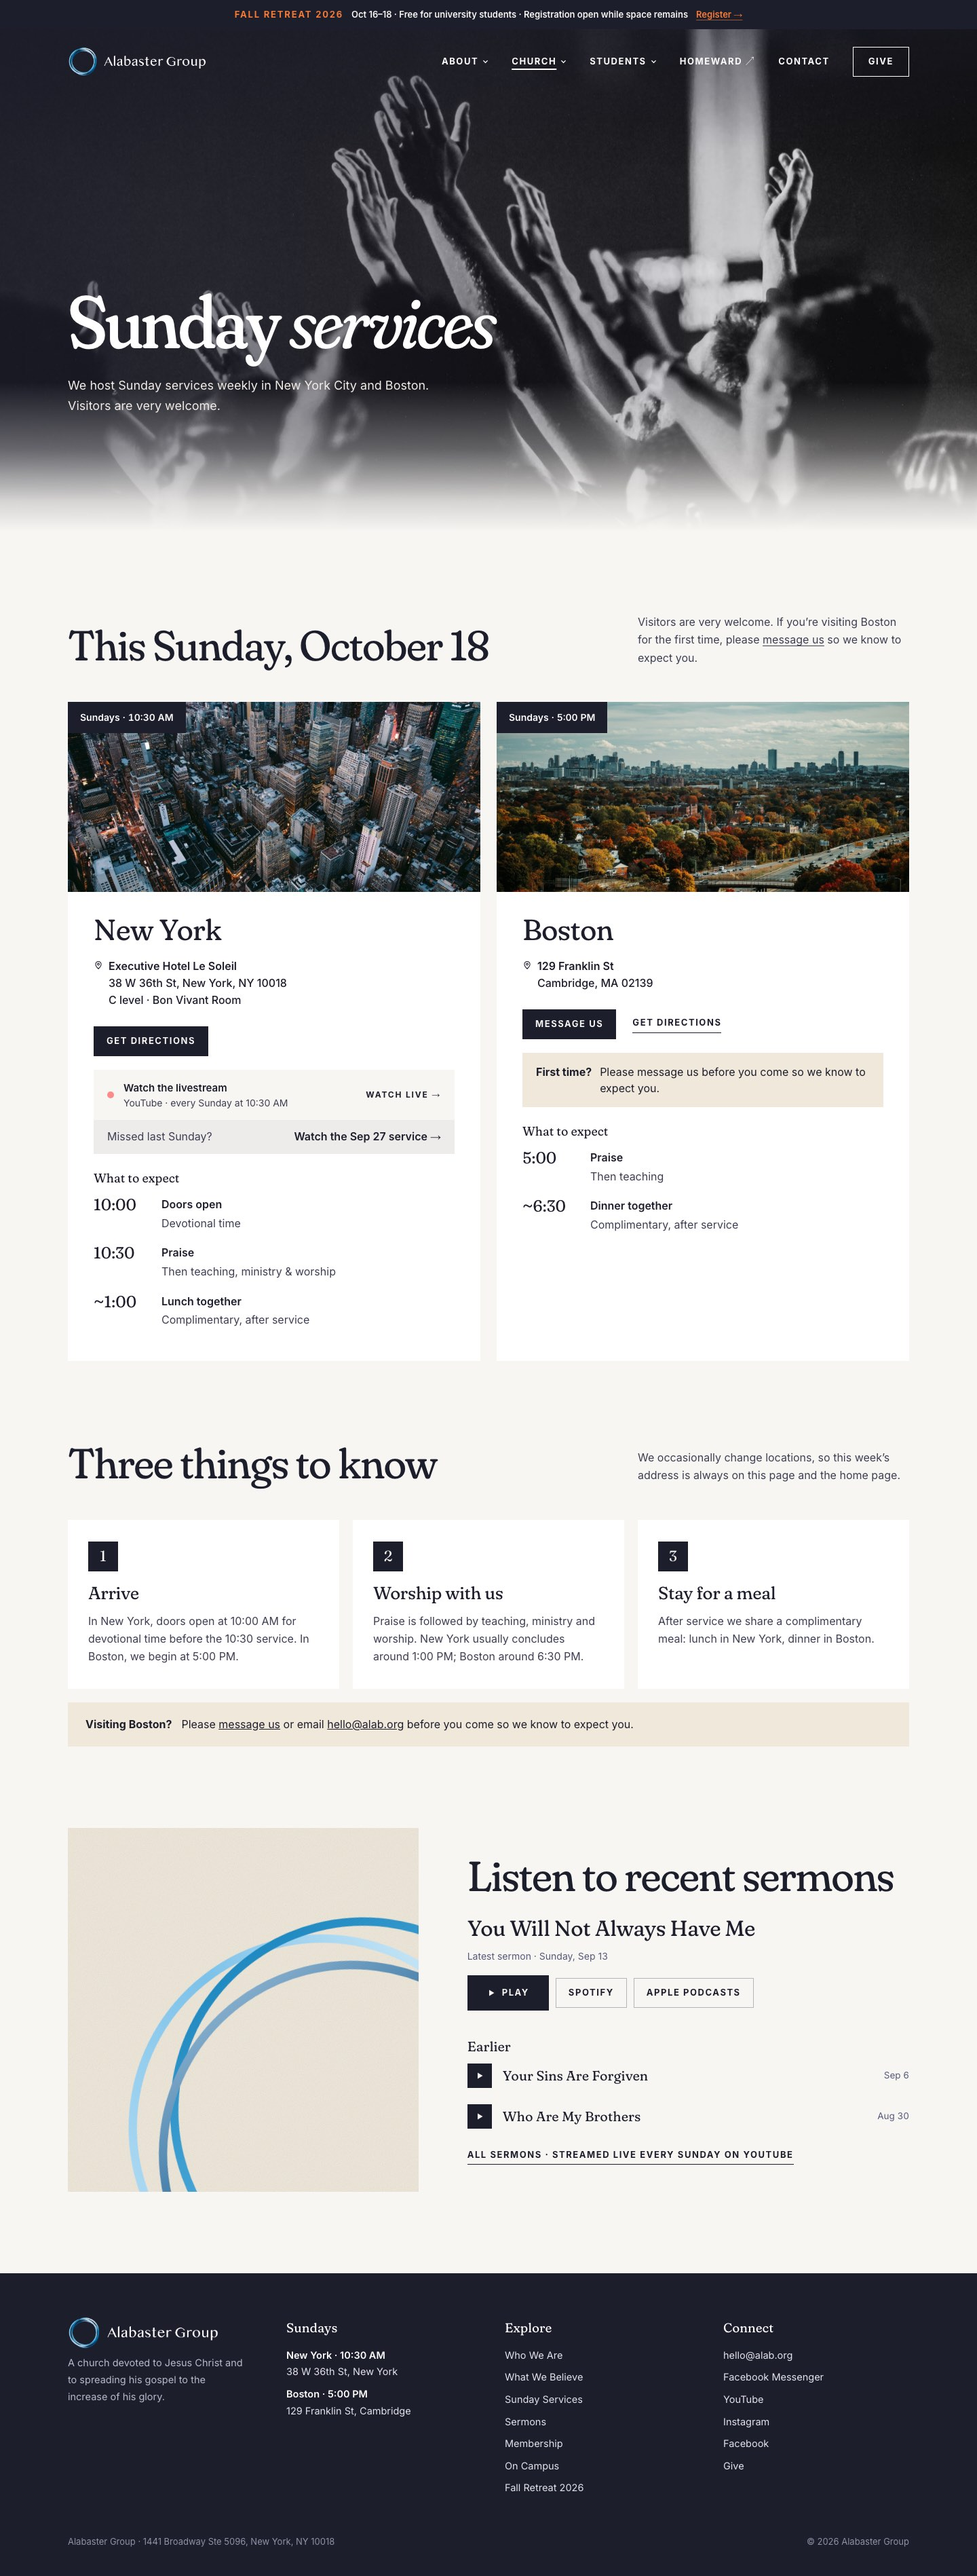
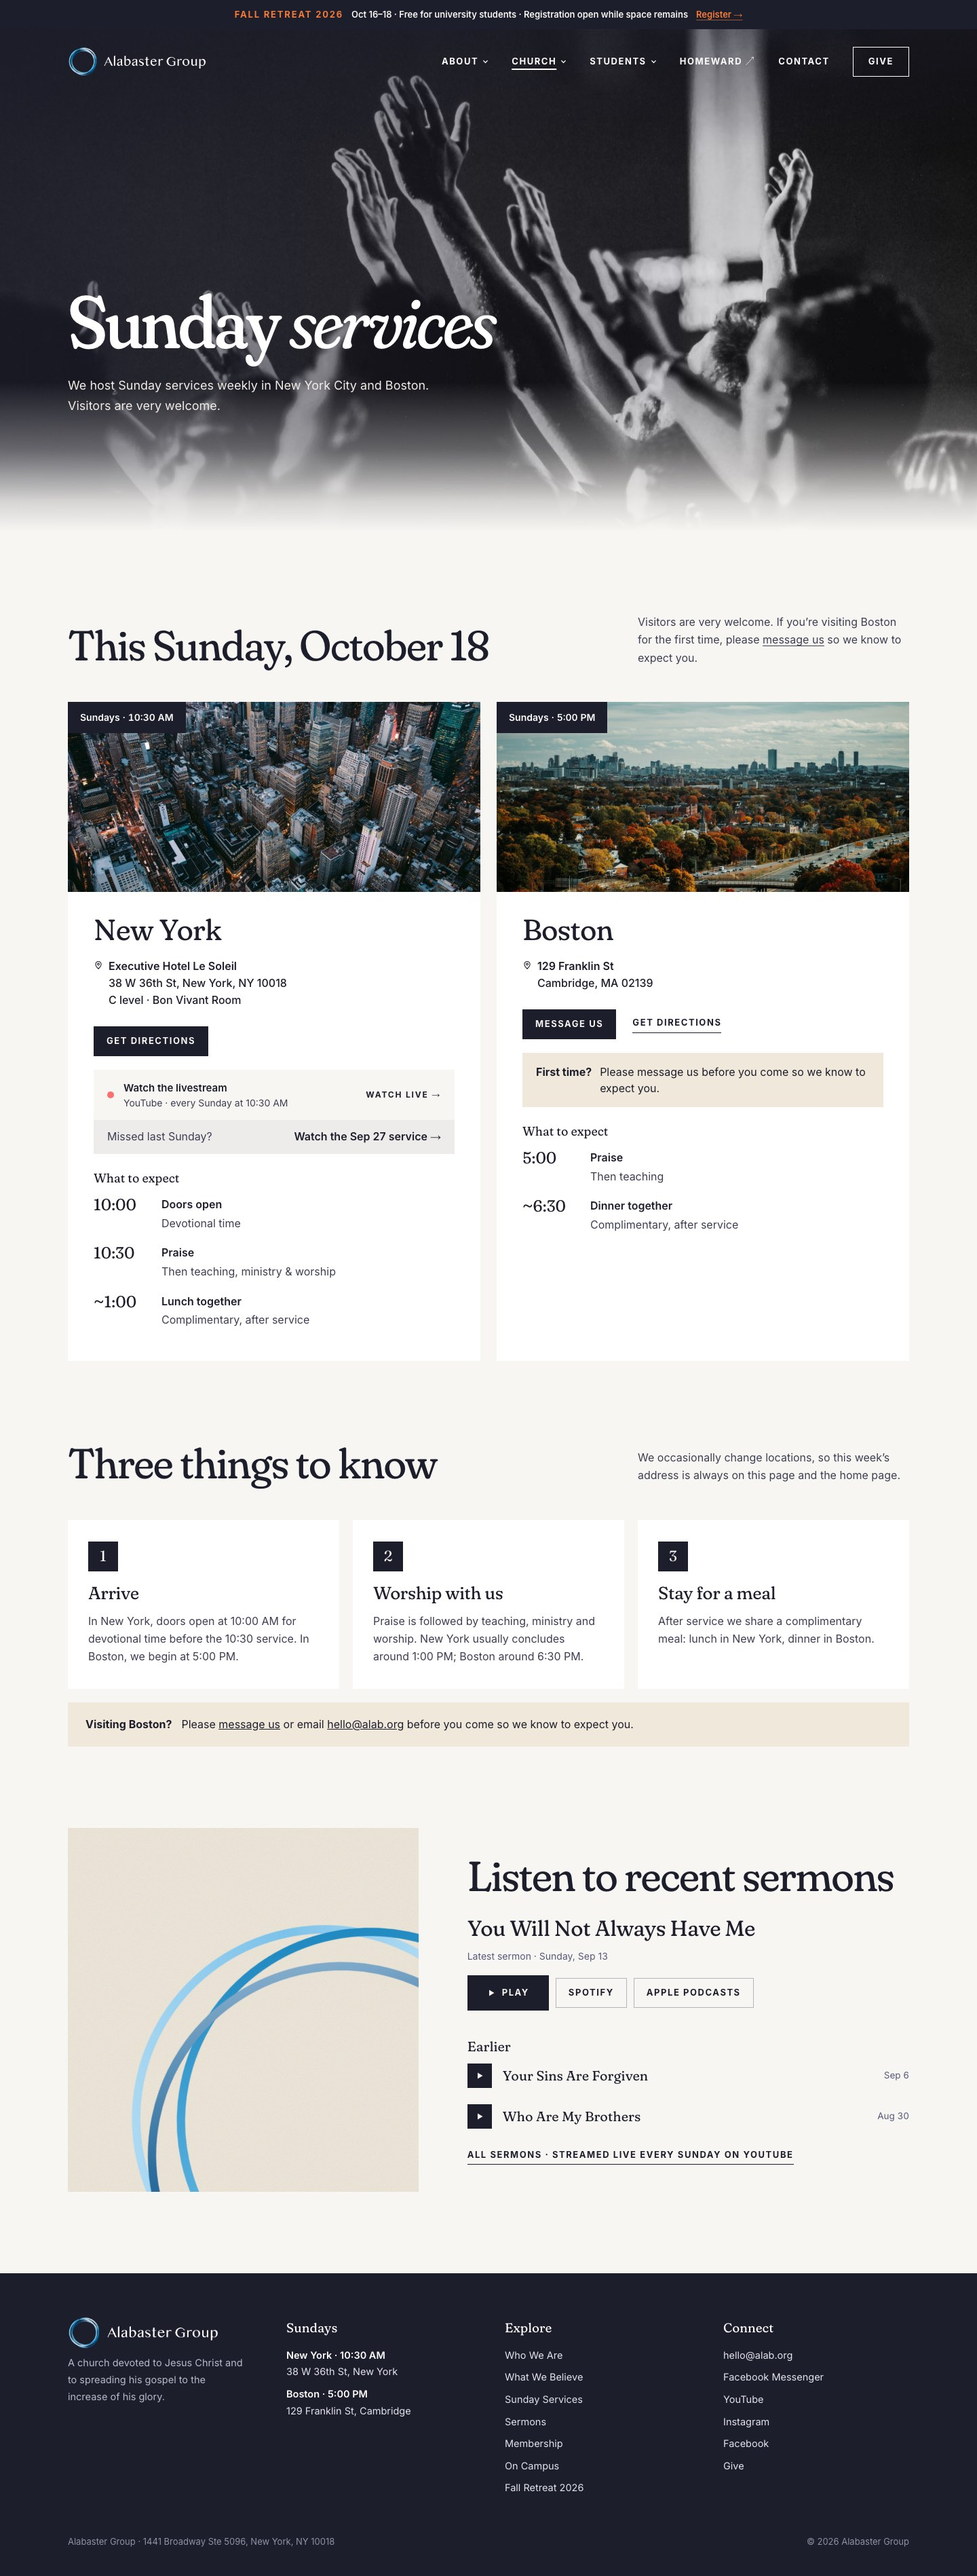
Homepage campus picker: tap your school, see your contact
Radio buttons styled as school labels; the matching contact panel
shows via CSS only, so it works without JavaScript and arrow keys
move between schools. Campus data gains an id and a default.

Changed region(s): [[0.125, 0.7462, 0.4375, 0.8706]]

diff --git a/public/css/site.css b/public/css/site.css
@@ -759,3 +759,19 @@ h2 em, h3 em { font-style: normal; }
 @media (max-width: 900px) {
   .hero__shade, .hero--page .hero__shade { background: linear-gradient(180deg, rgba(29, 30, 44, 0.45) 0%, rgba(29, 30, 44, 0.2) 28%, rgba(29, 30, 44, 0.62) 55%, rgba(29, 30, 44, 0.55) 78%, rgba(29, 30, 44, 0) 100%); }
 }
+
+/* ---------- Campus picker (homepage): radios + labels, works without JS ---------- */
+.picker { border: 0; margin: 4px 0 0; padding: 0; min-width: 0; display: flex; flex-direction: column; gap: 14px; }
+.picker__legend { padding: 0; margin-bottom: 14px; font-family: var(--serif); font-variation-settings: 'SOFT' 100; font-size: 24px; line-height: 1.2; color: var(--white); }
+.picker__chips { display: flex; flex-wrap: wrap; gap: 8px; }
+.picker__chip { min-height: 44px; padding: 0 16px; display: inline-flex; align-items: center; border: 1.5px solid rgba(255, 255, 255, 0.45); color: var(--white); font-size: 15px; font-weight: 600; cursor: pointer; user-select: none; transition: background-color 0.2s ease, color 0.2s ease, border-color 0.2s ease, transform 160ms var(--ease-out); }
+.picker__chip:active { transform: scale(0.97); }
+@media (hover: hover) and (pointer: fine) { .picker__chip:hover { border-color: var(--white); } }
+.picker__panel { display: none; flex-direction: column; background: var(--paper); color: var(--ink); padding: 4px 20px; }
+.picker__panel .contact-person { display: grid; grid-template-columns: 56px minmax(0, 1fr); gap: 16px; align-items: center; padding: 14px 0; }
+.picker__panel .contact-person img { width: 56px; height: 70px; object-fit: cover; }
+.picker__panel .contact-person span { display: flex; flex-direction: column; gap: 2px; font-size: 15px; line-height: 1.4; }
+.picker__panel .contact-person strong { font-family: var(--serif); font-variation-settings: 'SOFT' 100; font-weight: 400; font-size: 20px; }
+.picker__panel .contact-person .muted { color: var(--label); }
+.picker__panel .contact-person a { color: var(--ink); font-weight: 600; text-decoration: underline; text-decoration-color: rgba(29, 30, 44, 0.3); text-underline-offset: 3px; overflow-wrap: anywhere; }
+@media (max-width: 900px) { .picker__chip { padding: 0 13px; font-size: 14px; } }

diff --git a/src/partials/campus-picker.html b/src/partials/campus-picker.html
@@ -1,0 +1,7 @@
+<fieldset class="picker">
+<legend class="picker__legend">Find your campus contact</legend>
+{{#each campuses}}<input class="picker__input sr-only" type="radio" name="campus" id="campus-{{this.id}}" value="{{this.id}}"{{#if this.default}} checked{{/if}}>{{/each}}
+<div class="picker__chips">{{#each campuses}}<label class="picker__chip" for="campus-{{this.id}}">{{this.school}}</label>{{/each}}</div>
+<div class="picker__panels">{{#each campuses}}<div class="picker__panel picker__panel--{{this.id}}">{{this.html}}</div>{{/each}}</div>
+<style>{{#each campuses}}#campus-{{this.id}}:checked ~ .picker__panels .picker__panel--{{this.id}}{display:flex}#campus-{{this.id}}:checked ~ .picker__chips [for="campus-{{this.id}}"]{background:var(--paper);color:var(--ink);border-color:var(--paper)}#campus-{{this.id}}:focus-visible ~ .picker__chips [for="campus-{{this.id}}"]{outline:2px solid var(--orange);outline-offset:3px}{{/each}}</style>
+</fieldset>

diff --git a/src/pages/index.html b/src/pages/index.html
@@ -38,7 +38,8 @@ description: A church devoted to Jesus Christ and to spreading his gospel. Sunda
 <div class="wrap"><div class="photo-band__text">
 <h2>The gospel on <em>university campuses.</em></h2>
 <p>We hold prayer meetings, host retreats for students, offer discipleship, counseling, and prayer, and continually seek to expand the influence of the gospel on university campuses.</p>
-<div class="btn-row" style="gap: 28px;"><a class="link-u" href="/on-campus">Find your campus contact</a><a class="link-u" href="/student-membership">Student membership</a></div>
+{{> campus-picker}}
+<div class="btn-row" style="gap: 28px;"><a class="link-u" href="/on-campus">All campus contacts</a><a class="link-u" href="/student-membership">Student membership</a></div>
 </div></div>
 </div>
 <div class="dark">{{> retreat-feature}}</div>

diff --git a/docs/test-plan/README.md b/docs/test-plan/README.md
@@ -1,6 +1,6 @@
 # Test plan
 
-Generated 2026-10-16 18:29 by `scripts/test_plan.py` from a fresh build.
+Generated 2026-10-16 18:56 by `scripts/test_plan.py` from a fresh build.
 
 ## Automated checks
 
